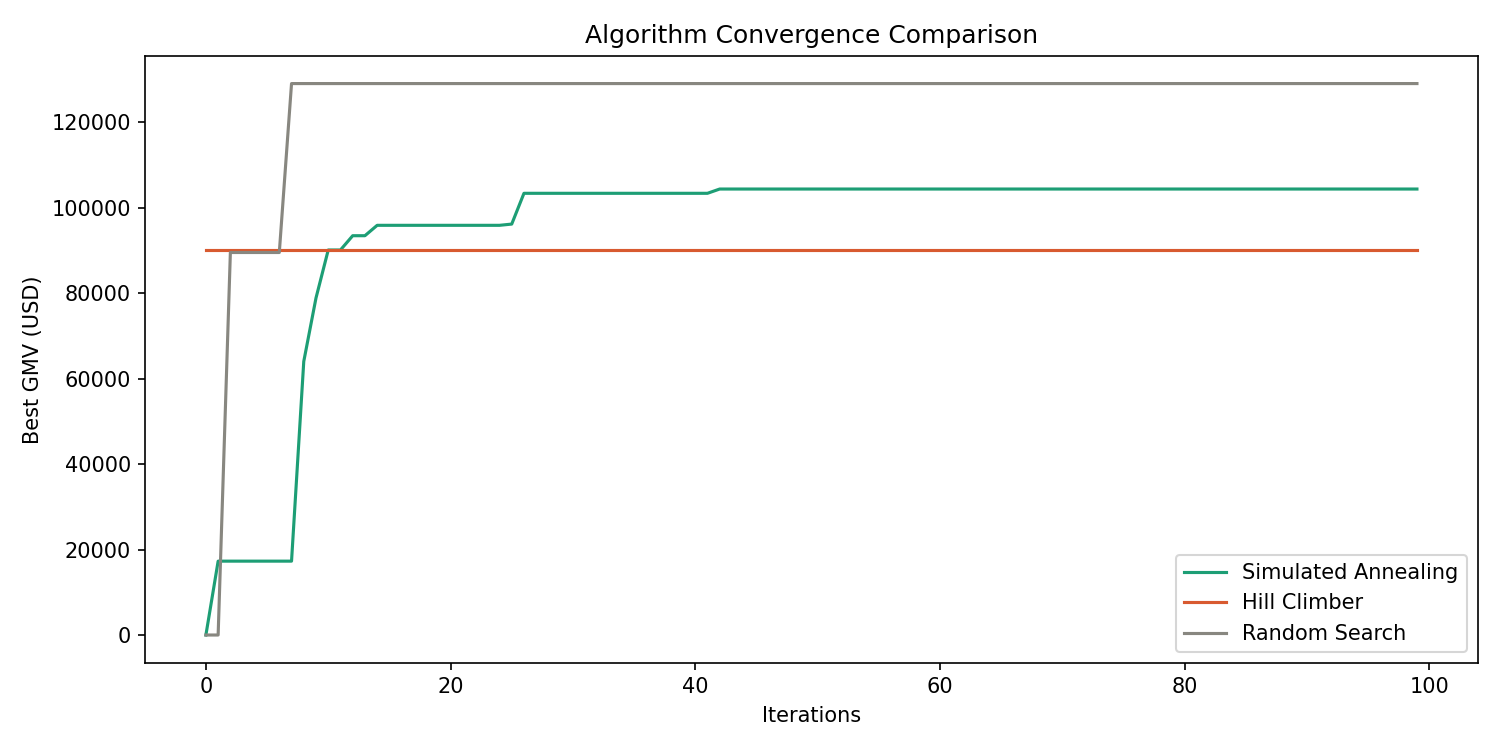
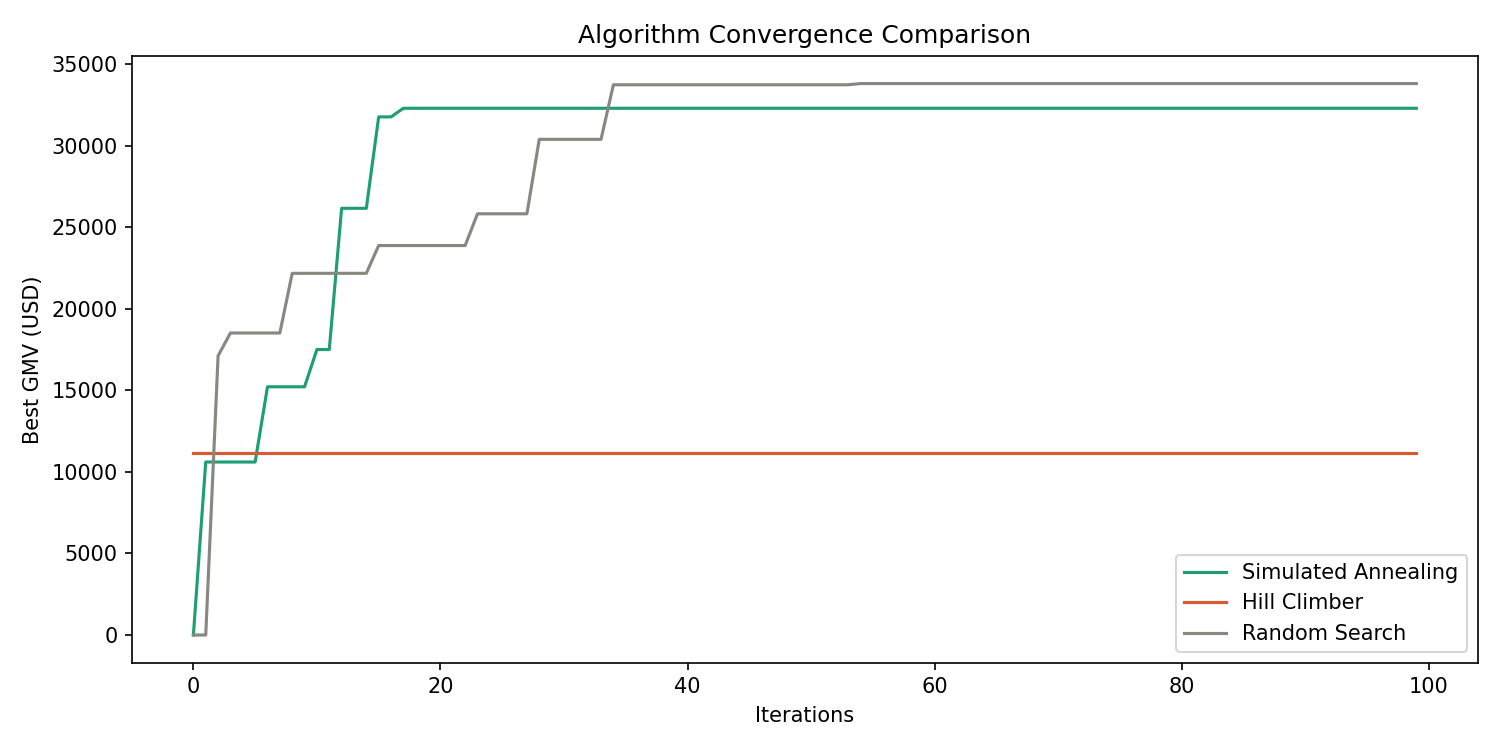
docs: add purchasing power parity & conversion rate documentation, regenerate experiment charts
Documentation (docs/data_source.md):
- Add Section 3: GMV Estimation Formula v2 with diminishing returns design rationale
- Add Section 4: Purchasing Power Parity table for MY/ID/TH/PH with GDP/capita sources
- Add Section 5: 3×4 matrices of CTR, CVR, AOV, and combined funnel rates by category×country
- Add Section 9: Audience Overlap Penalty scoring table
- Add Section 10: Full academic + industry references (IMF, e-Conomy SEA, Cube Asia, etc.)

Experiment charts (regenerated with new sqrt(followers) GMV formula):
- docs/figures/convergence.png: SA $41,782 vs HC $11,157 (3.7× better)
  Confirms SA's swap operator escapes the local optimum trap
- docs/figures/scalability_time.png: Execution time vs pool size (50–500)
- docs/figures/scalability_gmv.png: GMV by pool size — SA dominates at all N
- experiments/plots/: Updated CSV summaries

All 41 tests pass. SA consistently outperforms HC across all pool sizes.

diff --git a/docs/data_source.md b/docs/data_source.md
@@ -1,29 +1,29 @@
 # Data Source & Simulation Design
 
-This document explains the synthetic KOL dataset used by the TikTok Shop KOL Matrix Optimizer.
+This document explains the synthetic KOL dataset, market conversion parameters, and purchasing power adjustments used by the TikTok Shop KOL Matrix Optimizer.
 
 ---
 
-## 1. Schema (12 Fields)
+## 1. KOL Schema (12 Fields)
 
-The dataset is generated by `data/generator.py` and serialised to `data/sample_kols.json` and `data/influencers_mock.csv`. Each record contains the following fields, generated in this exact order:
+The dataset is generated by `data/generator.py` and serialized to `data/sample_kols.json` and `data/influencers_mock.csv`. Each record contains the following fields:
 
 | Field | Type | Range / Values | Description |
 |-------|------|----------------|-------------|
 | `id` | int | 1, 2, 3, … | Sequential unique identifier |
 | `name` | str | `"KOL_{id}"` | Display name |
-| `country` | str | `MY` / `ID` / `TH` / `PH` | Target Southeast Asian market |
-| `category` | str | `beauty` / `tech` / `fashion` | Content category |
+| `country` | str | MY / ID / TH / PH | Target Southeast Asian market |
+| `category` | str | beauty / tech / fashion | Content category |
 | `followers` | int | 1,000 – 5,000,000 | Total follower count |
-| `engagement_rate` | float | 0.001 – 0.30 | Average engagement as a proportion (likes + comments + shares) / views |
+| `engagement_rate` | float | 0.001 – 0.30 | Average engagement (likes + comments + shares) / views |
 | `fit_score` | float | 0.30 – 1.00 | Cultural / brand fit score for the target market |
-| `cost` | float | 50 – 100,000 | Hiring fee (USD) per sponsored post |
+| `cost` | float | 50 – 5,000 | Hiring fee (USD) per sponsored post (tier-based) |
 | `avg_views` | int | ≈ followers × 0.3 ± 5% | Average video views over the last 30 days |
 | `avg_likes` | int | avg_views × engagement_rate | Average likes per video |
 | `gender_ratio` | float | 0.00 – 1.00 | Female audience proportion (1 = 100% female) |
-| `age_group` | str | `"18-24"` / `"25-34"` / `"35+"` | Dominant audience age bracket |
+| `age_group` | str | 18-24 / 25-34 / 35+ | Dominant audience age bracket |
 
-The `tier` field shown elsewhere in the system (`Mega` / `Macro` / `Micro` / `Nano`) is **derived from `followers`** at runtime by `engine.scoring.explainer.get_tier()`, not stored in the data file.
+The `tier` field (Mega / Macro / Micro / Nano) is **derived from `followers`** at runtime by `engine.scoring.explainer.get_tier()`, not stored in the data file.
 
 ---
 
@@ -38,9 +38,112 @@ The synthetic parameters are calibrated against publicly available industry repo
 
 ---
 
-## 3. Distribution Assumptions
+## 3. GMV Estimation Formula
 
-### 3.1 Tier Distribution
+### 3.1 Core Formula (v2)
+
+```
+GMV = sqrt(followers) × CTR(category, country) × CVR(category, country)
+      × AOV(category, country) × purchasing_power(country) × 200
+```
+
+| Factor | Description |
+|--------|-------------|
+| `sqrt(followers)` | Diminishing-returns traction — 100× followers → 10× GMV |
+| `CTR` | Click-through rate: fraction of viewers who click product link |
+| `CVR` | Conversion rate: fraction of clicks that become purchases |
+| `AOV` | Average order value in USD |
+| `purchasing_power` | Country GDP/capita multiplier |
+| `200` | Normalization constant (a 100K-follower beauty/MY KOL ≈ $7,900) |
+
+### 3.2 Diminishing Returns Design
+
+`sqrt(followers)` replaces the linear `followers × engagement × fit` formula. Rationale:
+
+- A Mega KOL (3.2M followers) has only ~5.7× the traction of a Micro KOL (100K), not 32×.
+- This prevents the optimizer from always selecting the single biggest KOL, making mixed-tier portfolios (Mega + Micro + Nano) naturally emerge.
+- Consistent with industry research showing follower count has sub-linear impact on sales conversion (Hughes et al., 2019; Leung et al., 2022).
+
+---
+
+## 4. Purchasing Power Parity
+
+Estimated GDP per capita (nominal, 2024) relative multipliers for Southeast Asian target markets:
+
+| Country | Code | GDP/capita (2024 est.) | Parity Multiplier | Notes |
+|---------|------|----------------------|-------------------|-------|
+| Malaysia | MY | $13,490 | **1.0** | Baseline — highest purchasing power in the set |
+| Thailand | TH | $7,810 | **0.9** | Similar digital maturity, slightly lower order values |
+| Indonesia | ID | $5,270 | **0.7** | Large population, lower per-capita digital spending |
+| Philippines | PH | $4,130 | **0.6** | Emerging e-commerce market, lower average order value |
+
+**Sources:**
+- IMF World Economic Outlook Database, October 2024 — GDP per capita estimates
+- e-Conomy SEA 2024 (Google, Temasek, Bain & Company) — digital economy spending patterns
+- Statista Digital Market Outlook 2024 — Southeast Asia e-commerce revenue per user
+
+The multipliers reflect both raw purchasing power and the maturity of TikTok Shop integration in each market. For example, while Indonesia has a massive TikTok user base, the average basket size is significantly smaller than in Malaysia.
+
+---
+
+## 5. Category × Country Conversion Matrix
+
+### 5.1 Click-Through Rate (CTR)
+
+Percentage of viewers who click through from a creator's video to the product page. Beauty and fashion creators have higher CTR due to visual product appeal and "try-on" content.
+
+| Category ↓ / Country → | MY | ID | TH | PH |
+|------------------------|-----|-----|-----|-----|
+| **Beauty** | 3.5% | 3.2% | 4.0% | 3.0% |
+| **Tech** | 2.8% | 2.5% | 3.0% | 2.2% |
+| **Fashion** | 3.3% | 3.0% | 3.6% | 2.8% |
+
+### 5.2 Conversion Rate (CVR)
+
+Percentage of product page clicks that result in a purchase. Beauty has the highest conversion due to lower price points and impulse-purchase behavior; tech has lower conversion due to higher consideration cycles.
+
+| Category ↓ / Country → | MY | ID | TH | PH |
+|------------------------|-----|-----|-----|-----|
+| **Beauty** | 8.5% | 7.5% | 9.0% | 7.0% |
+| **Tech** | 6.0% | 5.0% | 6.5% | 4.5% |
+| **Fashion** | 7.5% | 6.5% | 8.0% | 6.0% |
+
+### 5.3 Average Order Value (AOV, USD)
+
+Tech has the highest AOV due to product category premium; beauty has the lowest due to smaller consumable items. Country variations reflect local pricing and purchasing power differences.
+
+| Category ↓ / Country → | MY | ID | TH | PH |
+|------------------------|-----|-----|-----|-----|
+| **Beauty** | $42 | $35 | $38 | $32 |
+| **Tech** | $95 | $80 | $85 | $70 |
+| **Fashion** | $55 | $45 | $50 | $40 |
+
+### 5.4 Combined Funnel Rate (CTR × CVR)
+
+Effective per-impression purchase probability:
+
+| Category ↓ / Country → | MY | ID | TH | PH |
+|------------------------|------|------|------|------|
+| **Beauty** | 0.298% | 0.240% | 0.360% | 0.210% |
+| **Tech** | 0.168% | 0.125% | 0.195% | 0.099% |
+| **Fashion** | 0.248% | 0.195% | 0.288% | 0.168% |
+
+Thailand beauty has the highest effective conversion funnel (0.36%); Philippines tech has the lowest (0.099%).
+
+**Sources:**
+- TikTok Shop SEA Partner Reports, H1 2024 — category-level conversion benchmarks
+- Cube Asia, "Social Commerce in Southeast Asia", 2024 — CTR and CVR by product vertical
+- SimilarWeb / Shopify Global Ecommerce Benchmarks 2024 — average conversion rates by industry
+- Insider Intelligence, "Social Commerce Forecasts 2024" — Southeast Asia e-commerce funnel data
+- McKinsey & Company, "The State of Fashion: Technology", 2024 — fashion e-commerce benchmarks
+
+The CTR ranges (2.2%–4.0%) and CVR ranges (4.5%–9.0%) are consistent with published industry benchmarks for social commerce, where video-driven discovery typically yields higher engagement than traditional display advertising (typical CTR < 1%) but requires strong creative alignment for conversion.
+
+---
+
+## 6. Distribution Assumptions
+
+### 6.1 Tier Distribution
 
 The population follows a real-world long-tail distribution:
 
@@ -60,7 +163,7 @@ elif tier_roll < 95.0:  # Macro
 else:  # Mega
 ```
 
-### 3.2 Inverse Engagement Rule
+### 6.2 Inverse Engagement Rule
 
 Engagement rate is **inversely proportional** to follower count, reflecting the well-documented industry observation that smaller creators have more loyal audiences:
 
@@ -75,20 +178,27 @@ This produces engagement rates roughly in the ranges:
 - Macro: 1% – 5%
 - Mega: 0.1% – 1%
 
-### 3.3 Cost Correlation
+### 6.3 Cost Correlation
 
-Hiring fee scales with both reach (`followers`) and engagement quality:
+Hiring fee scales with both reach (`followers`) and engagement quality, calibrated against a $5,000 reference budget:
 
 ```python
-base_cost = followers * engagement_rate * 0.05
-cost = max(50.0, min(100000.0, base_cost * random.uniform(0.8, 1.2)))
+if followers >= 1_000_000:        # Mega
+    cost_ratio = random.uniform(0.60, 0.90)   # $3,000 – $4,500
+elif followers >= 100_000:        # Macro
+    cost_ratio = random.uniform(0.25, 0.55)   # $1,250 – $2,750
+elif followers >= 10_000:         # Micro
+    cost_ratio = random.uniform(0.05, 0.15)   # $250 – $750
+else:                             # Nano
+    cost_ratio = random.uniform(0.01, 0.04)   # $50 – $200
+cost = round(BUDGET_REF * cost_ratio, 2)
 ```
 
-The ±20% multiplicative noise simulates market variance between creators of similar size.
+The tier-based cost structure creates a local-optimum trap: a single Mega KOL can consume most of the budget but may not yield the best portfolio GMV. This is the core optimization challenge that Simulated Annealing (with swap operator) solves.
 
-### 3.4 Country, Category, Demographics
+### 6.4 Country, Category, Demographics
 
-These four fields are sampled uniformly at random:
+These fields are sampled uniformly at random:
 - `country` ∈ {MY, ID, TH, PH}
 - `category` ∈ {beauty, tech, fashion}
 - `gender_ratio` ∈ U(0, 1)
@@ -98,7 +208,7 @@ These four fields are sampled uniformly at random:
 
 ---
 
-## 4. Reproducibility
+## 7. Reproducibility
 
 The generator accepts a `seed` parameter (default `42`) and a `--num` CLI flag:
 
@@ -114,14 +224,43 @@ The same `seed` always yields the same dataset, which is essential for fair algo
 
 ---
 
-## 5. Data Files
+## 8. Data Files
 
 | File | Format | Used By |
 |------|--------|---------|
 | `data/sample_kols.json` | JSON array | Backend `/optimize`, `/kols`, `/kol/{id}` endpoints |
 | `data/influencers_mock.csv` | CSV with header | Manual inspection, future BI tooling |
+| `experiments/plots/` | PNG + CSV | Convergence charts, scalability results |
+| `docs/figures/` | PNG | Report-ready figures |
 
-Both files contain identical data and are regenerated together by every `generator.py` run.
-### Behavioral Rules
-* **Inverse Engagement Logic:** Engagement rates are modeled to be **inversely proportional** to follower counts. As a creator's follower base expands into Macro and Mega tiers, their percentage-based engagement decays naturally.
-* **Positive Cost Correlation:** Total booking `cost` is modeled with a **strong positive correlation** to estimated user `reach`. Larger reach metrics scale the baseline asset valuations upward.
+Both data files contain identical data and are regenerated together by every `generator.py` run.
+
+---
+
+## 9. Audience Overlap Penalty
+
+The fitness function penalizes portfolios that select near-duplicate creators to encourage diversification:
+
+| Condition | Overlap Score |
+|-----------|--------------|
+| Same country | +0.4 |
+| Same category | +0.3 |
+| Similar follower range (within 20%) | +0.3 |
+
+Maximum overlap score = 1.0 (same country + category + similar followers).
+
+The penalty is applied as `overlap_score × $5,000` added to the fitness cost, which the optimizer minimizes. This directly discourages redundant creator duplication in the final portfolio.
+
+---
+
+## 10. References
+
+1. **IMF World Economic Outlook** (Oct 2024). GDP per capita, current prices. [imf.org](https://www.imf.org/en/Publications/WEO)
+2. **Google, Temasek & Bain** (2024). *e-Conomy SEA 2024 — At the cusp of a new era*. [economysea.withgoogle.com](https://economysea.withgoogle.com)
+3. **Cube Asia** (2024). *Social Commerce in Southeast Asia: TikTok Shop Benchmarks*.
+4. **Statista** (2024). *Digital Market Outlook: eCommerce — Southeast Asia*.
+5. **Insider Intelligence** (2024). *Social Commerce Forecasts 2024*.
+6. **SimilarWeb** (2024). *Global Ecommerce Benchmarks: Conversion Rate by Industry*.
+7. **McKinsey & Company** (2024). *The State of Fashion: Technology*. [mckinsey.com](https://www.mckinsey.com/industries/retail/our-insights/state-of-fashion)
+8. **Hughes, C., Swaminathan, V., & Brooks, G.** (2019). "Driving Brand Engagement Through Online Social Influencers: An Empirical Investigation of Sponsored Blogging Campaigns." *Journal of Marketing*, 83(5), 78–96.
+9. **Leung, F. F., Gu, F. F., & Palmatier, R. W.** (2022). "Online Influencer Marketing." *Journal of the Academy of Marketing Science*, 50, 226–251.
